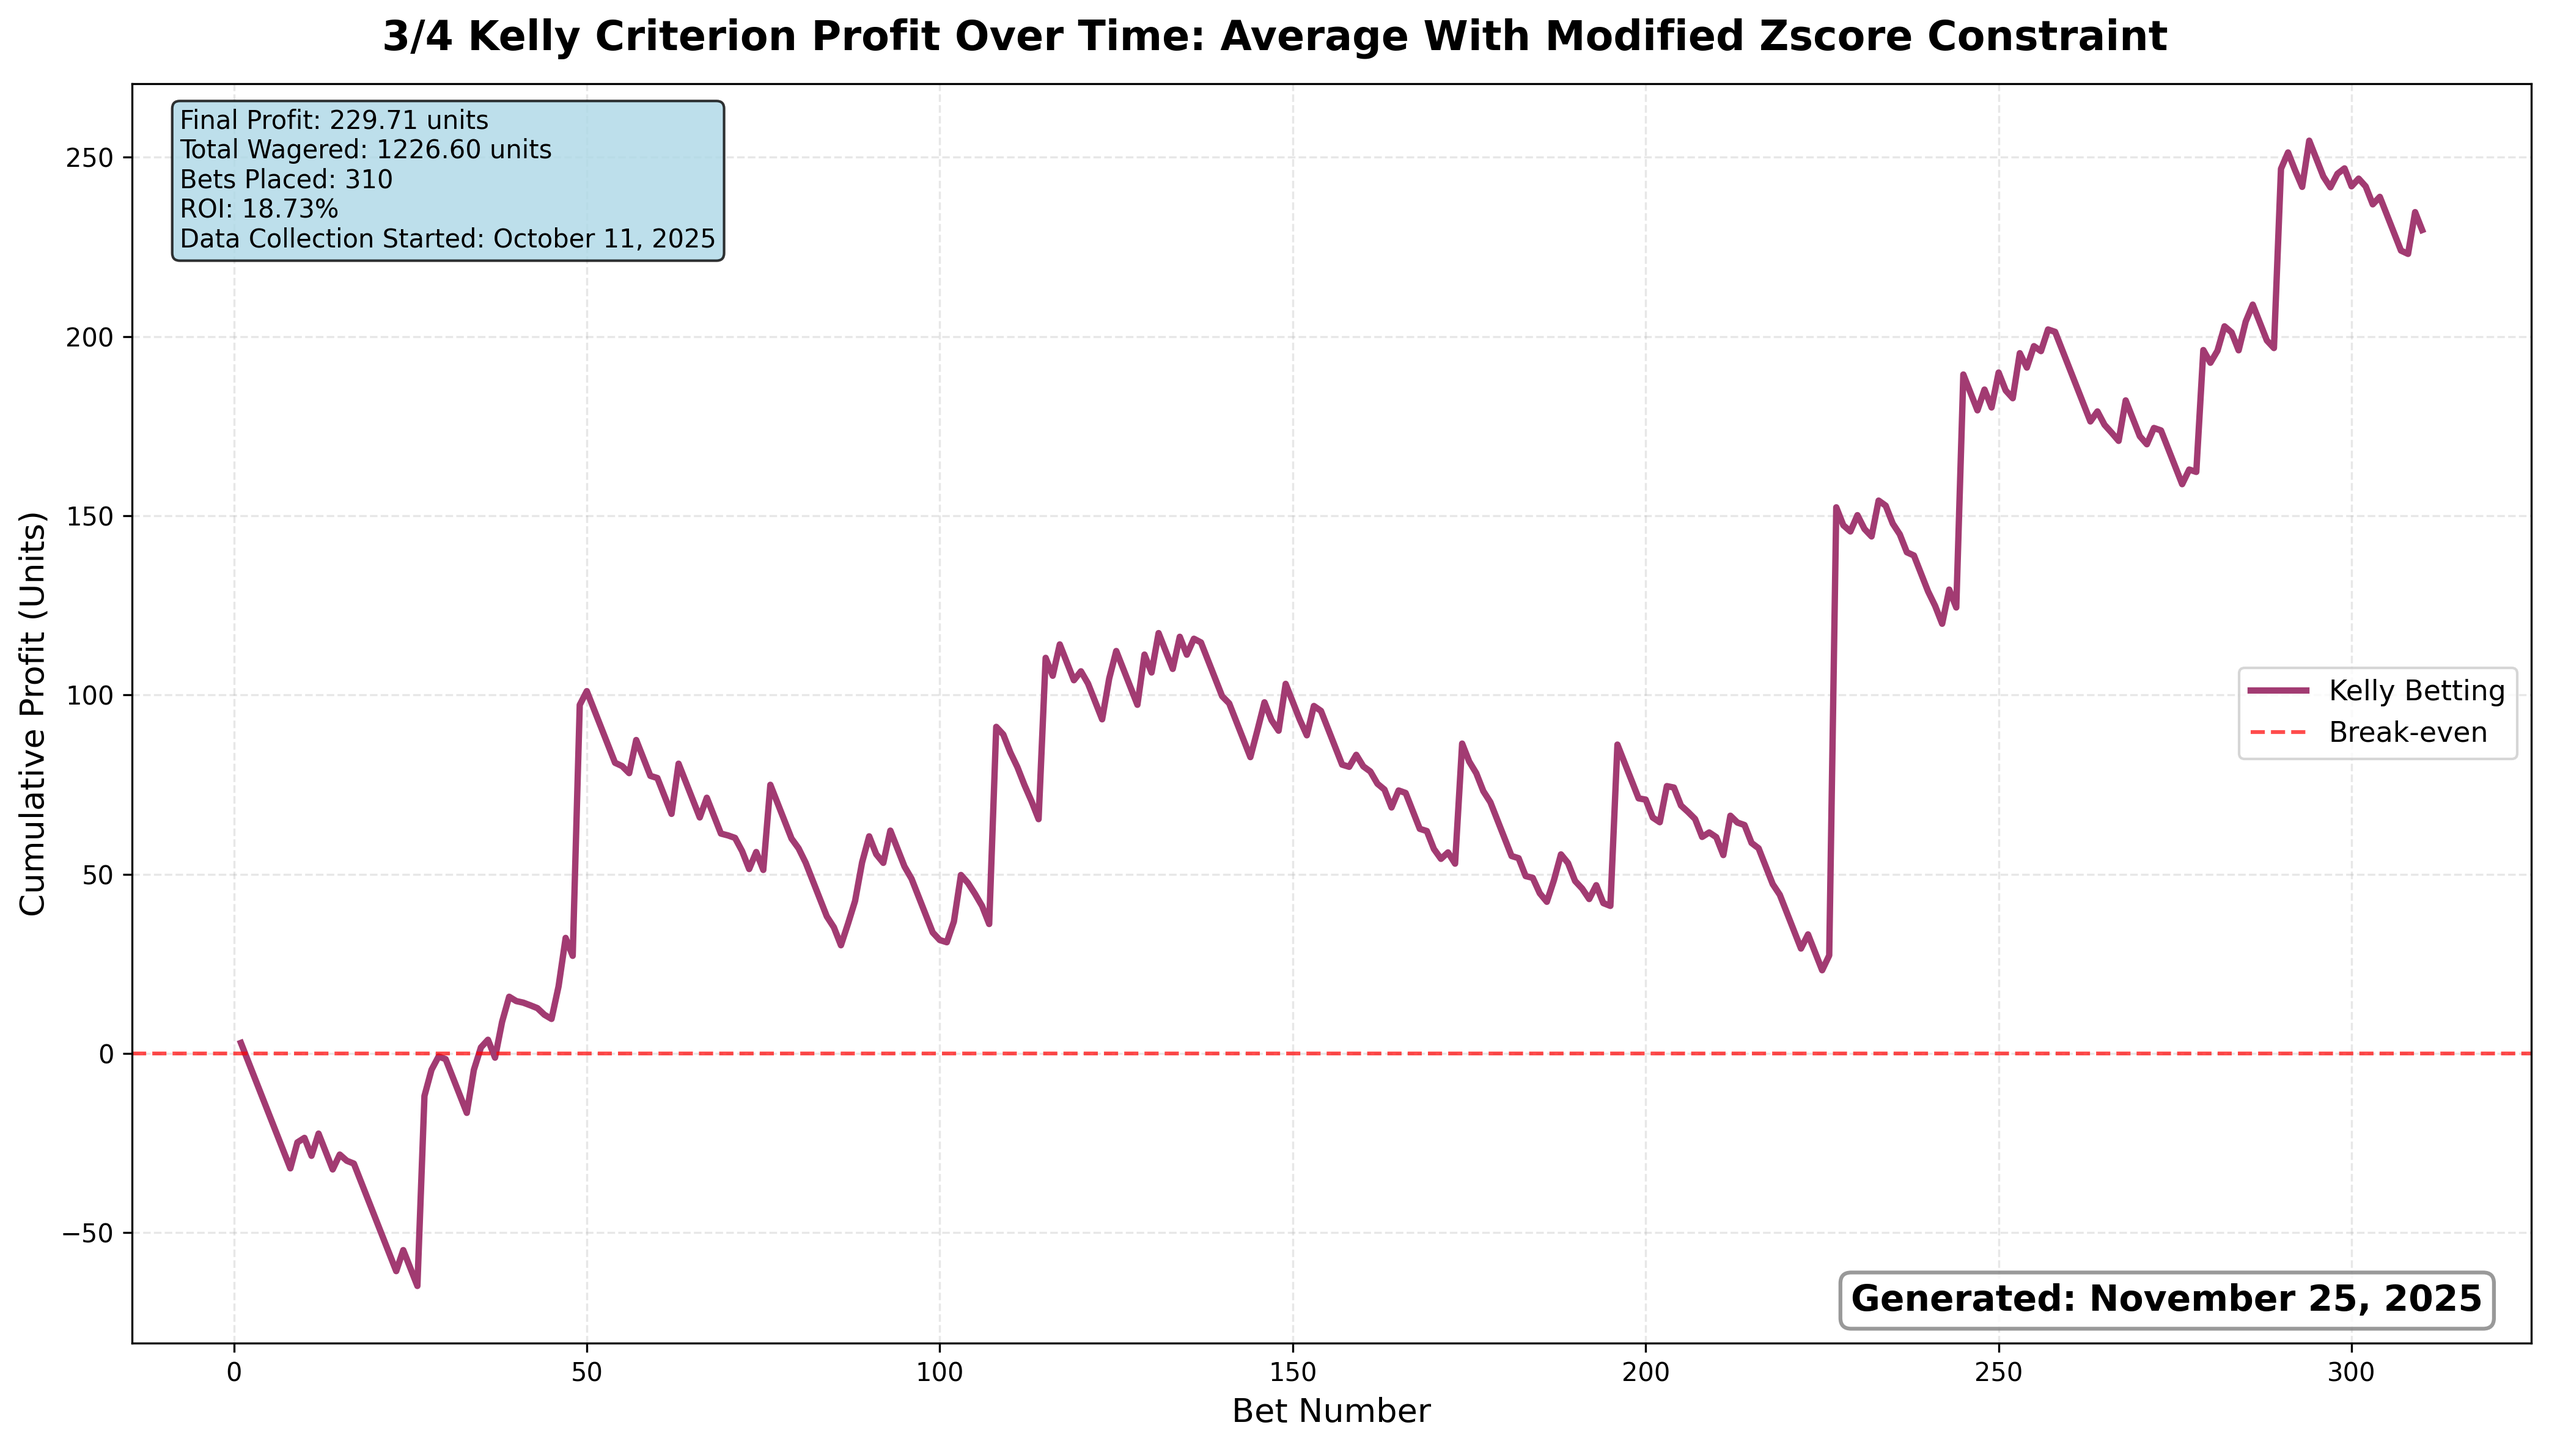
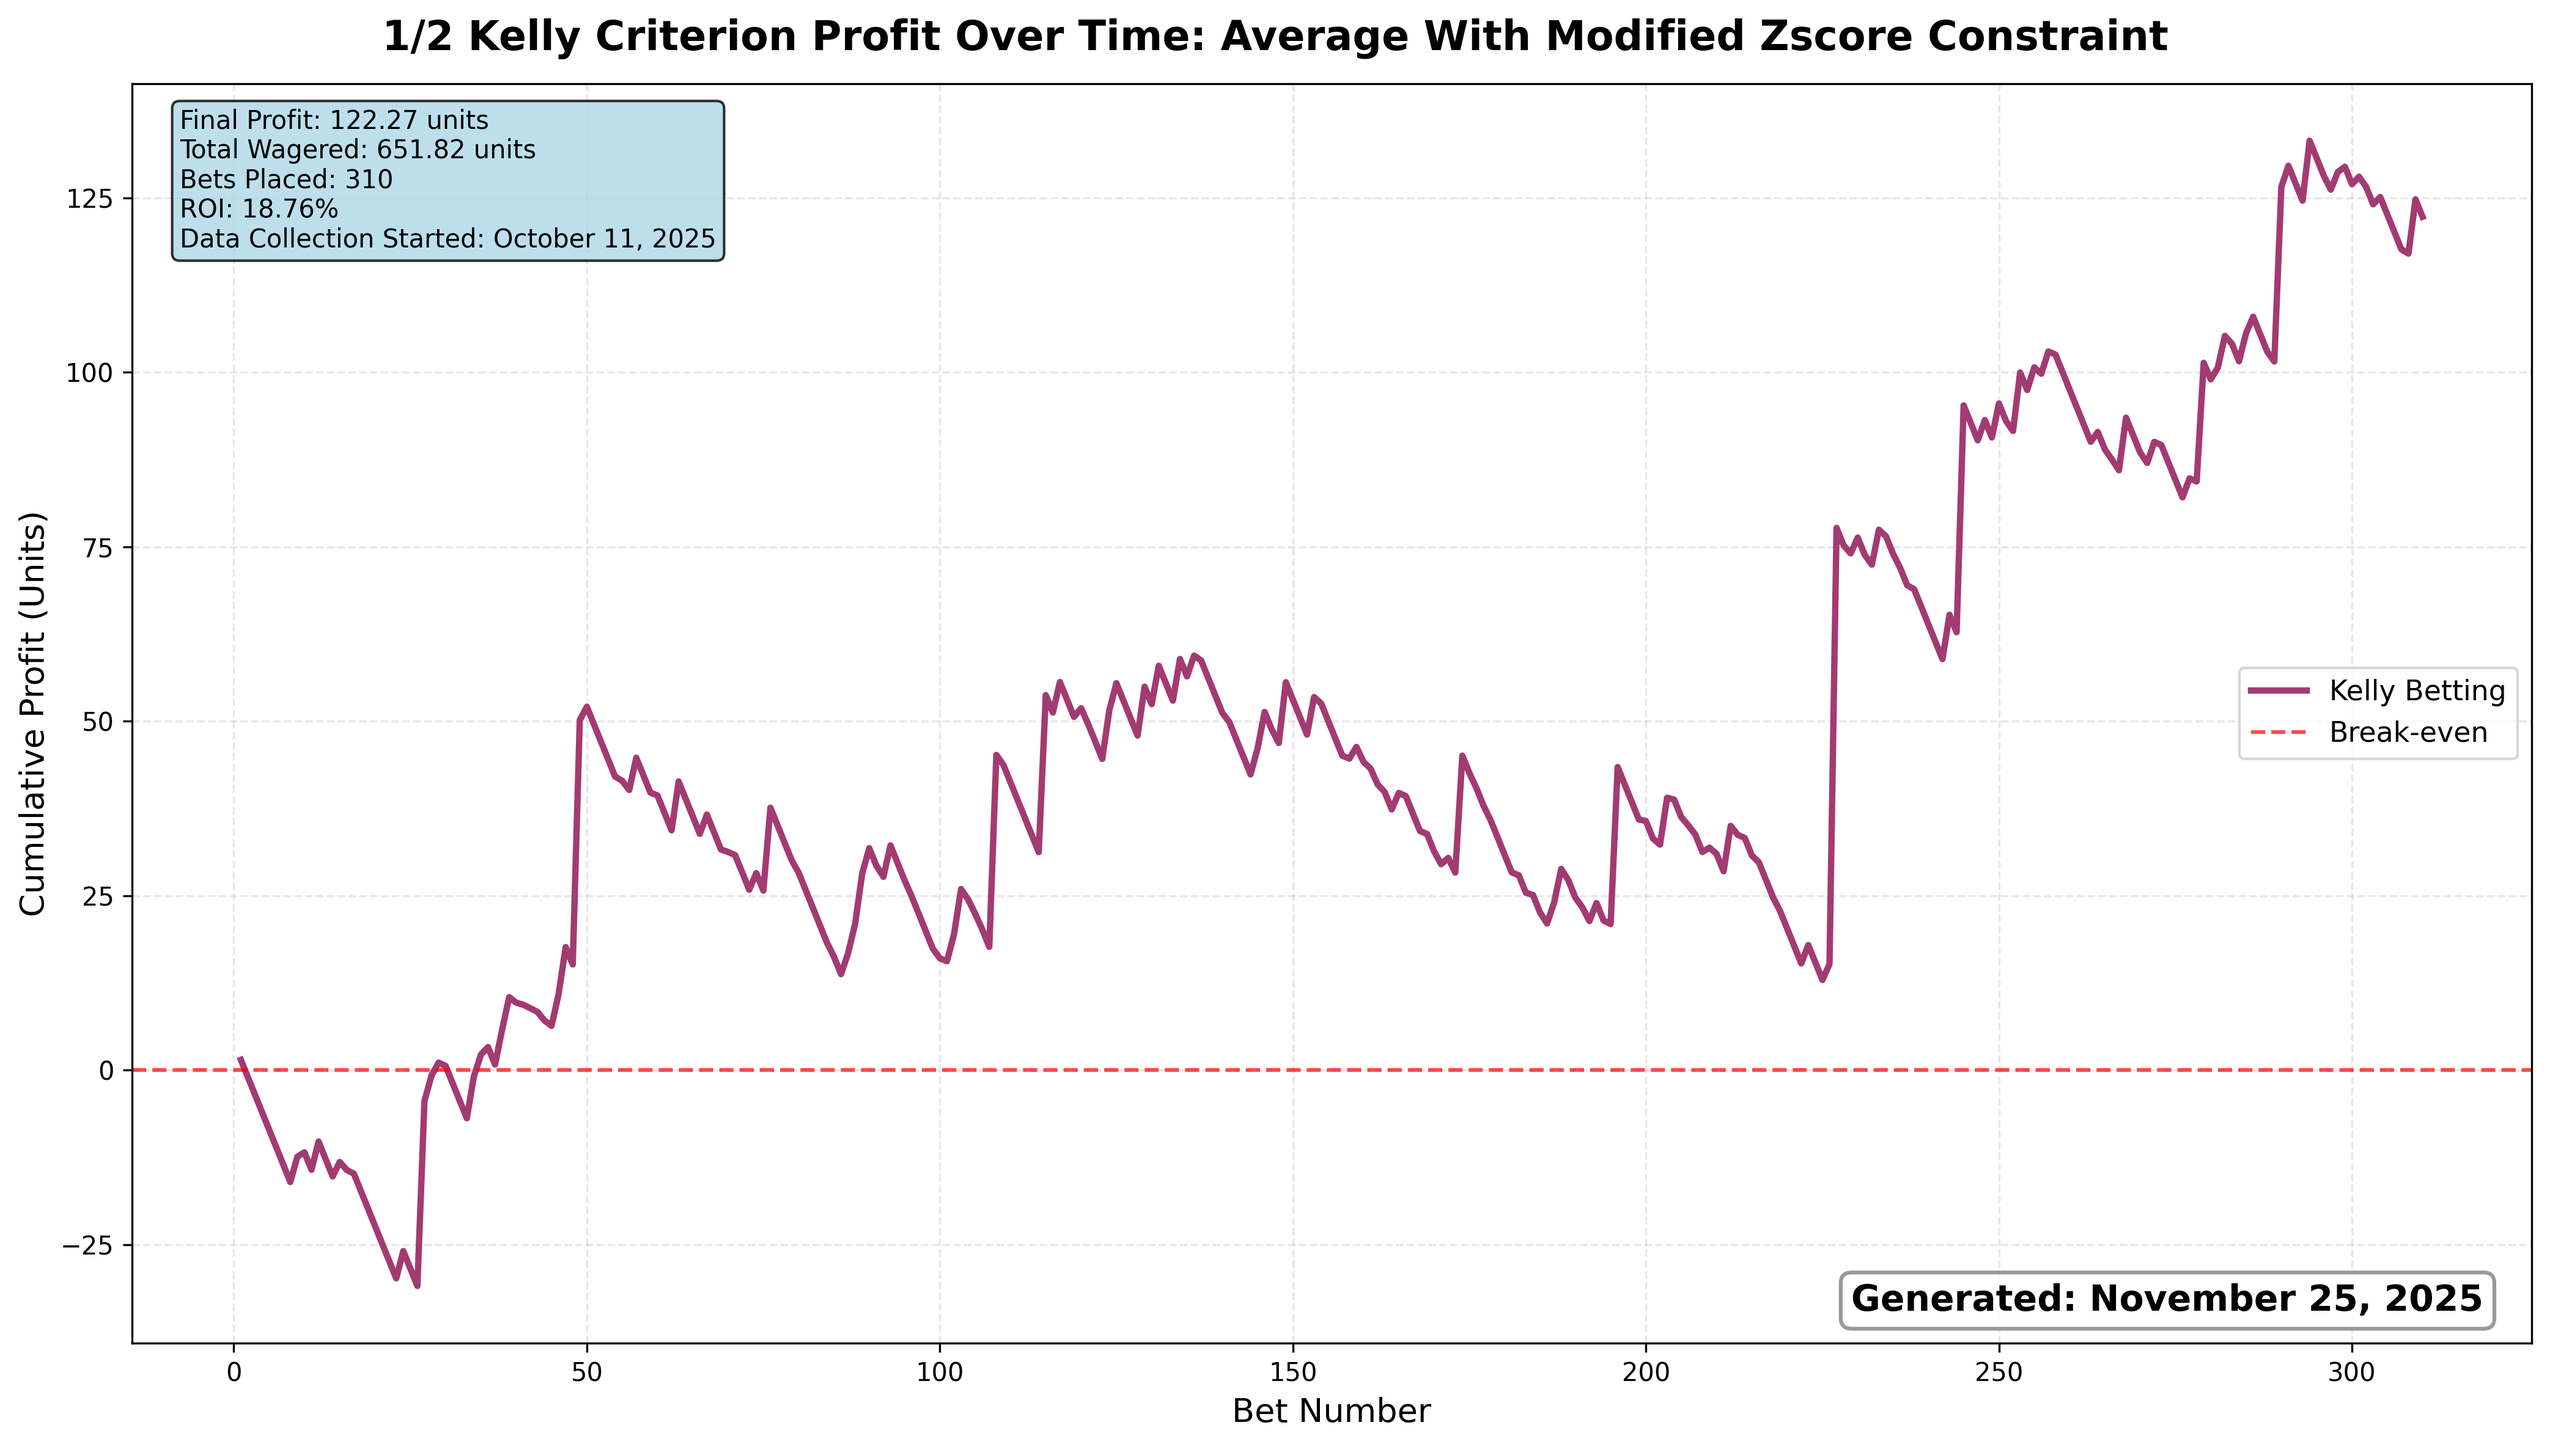
change max bet to 2.5 units and kelly fraction to 1/2

diff --git a/codebase/analysis/profit_over_time.py b/codebase/analysis/profit_over_time.py
@@ -54,7 +54,7 @@ STRATEGIES = [
 ]
 
 # Kelly fraction
-KELLY_FRACTION = 0.75
+KELLY_FRACTION = 0.5
 
 # EV threshold - only place bets with EV above this percentage
 MIN_EV_THRESHOLD = 0.05  # 5% minimum EV to place bet
@@ -64,7 +64,7 @@ EV_MAX_BET_THRESHOLD = 0.2
 ZSCORE_MAX_BET_THRESHOLD = 3.5
 
 
-def kelly_bet(odds, fair_odds, ev=None, zscore=None, max_multiplier=5.0):
+def kelly_bet(odds, fair_odds, ev=None, zscore=None, max_multiplier=2.5):
     """
     Kelly bet adjusted for parameter uncertainty via shrinkage coefficient.
     
@@ -243,7 +243,7 @@ def plot_profit_over_time(strategy, save_fig=False):
                 fontsize=10)
     else:
         # Plot Kelly betting for other strategies
-        fig.suptitle(f'3/4 Kelly Criterion Profit Over Time: {strategy.name}', 
+        fig.suptitle(f'1/2 Kelly Criterion Profit Over Time: {strategy.name}', 
                      fontsize=16, fontweight='bold')
         
         kelly_profit = calculate_cumulative_profit_kelly(

diff --git a/codebase/analysis/roi.py b/codebase/analysis/roi.py
@@ -53,7 +53,7 @@ STRATEGIES = [
 ]
 
 # Kelly fraction
-KELLY_FRACTION = 0.75
+KELLY_FRACTION = 0.5
 
 # EV threshold - only place bets with EV above this percentage
 MIN_EV_THRESHOLD = 0.05
@@ -64,7 +64,7 @@ ZSCORE_MAX_BET_THRESHOLD = 3.5
 
 
 
-def kelly_bet(odds, fair_odds, ev=None, zscore=None, max_multiplier=5.0):
+def kelly_bet(odds, fair_odds, ev=None, zscore=None, max_multiplier=2.5):
     """
     Kelly bet adjusted for parameter uncertainty via shrinkage coefficient.
     
